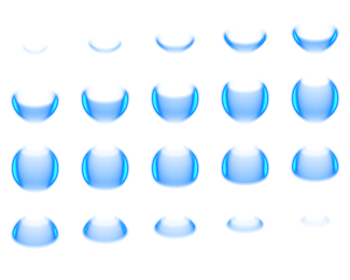
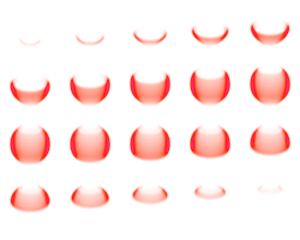
players 1-4 now have their own unique skin

diff --git a/assets/javascripts/poop.js b/assets/javascripts/poop.js
@@ -24,6 +24,10 @@ var shotCooldown = 700
 function preload() {
 	game.load.image('sky','images/sky.jpg');
 	game.load.image('bottom_bar', 'images/bottom_bar.png')
+	game.load.image('vertical_icon','images/vertical_icon.png')
+	game.load.image('shotgun_icon','images/shotgun_icon.png')
+	game.load.image('upgrade_icon','images/upgrade_icon.png')
+	game.load.image('omni_icon','images/omni_icon.png')
 	game.load.image('basic_bullet_right','images/basic_bullet_right.png')
 	game.load.image('basic_bullet_down','images/basic_bullet_down.png')
 	game.load.image('basic_bullet_left','images/basic_bullet_left.png')
@@ -43,6 +47,9 @@ function preload() {
 	game.load.spritesheet('explode1', 'images/explode1.png', 100, 100, 9)
 	// console.log("Loading sship: "+game.time.time)
 	game.load.spritesheet('sship','images/sship.png',50,50)
+	game.load.spritesheet('rship','images/redship.png',50,50)
+	game.load.spritesheet('bship','images/blueship.png',50,50)
+	game.load.spritesheet('pship','images/purpleship.png',50,50)
 	game.load.spritesheet('charging','images/charging.png',70,70)
 	
 }
@@ -156,7 +163,7 @@ socket.on('player info', function(data) {
 function spawnPlayer(user) {
 	Players.counter++
 	// have server send over which ship to render as well
-	Players[user.id] = game.add.sprite(user.x, user.y, 'sship');
+	Players[user.id] = game.add.sprite(user.x, user.y, user.ship);
 
 	var player = Players[user.id]
 	// player.weapons = []

diff --git a/app.js b/app.js
@@ -218,21 +218,25 @@ generatePlayer = function(id) {
 			var x = 100
 			var y = 100
 			var facing = "right"
+      var ship = 'sship'
 		}
 		else if (users.counter ===2) {
 			var x = 1180
 			var y = 500
 			var facing = "left"
+      var ship = 'bship'
 		}
 		else if (users.counter ===3) {
 			var x = 100
 			var y = 500
 			var facing = "right"
+      var ship = 'rship'
 		}
 		else if (users.counter ===4) {
 			var x = 1180
 			var y = 100
 			var facing = "left"
+      var ship = 'pship'
 		}
 		else {
 			var x = Math.floor(Math.random()*1230)
@@ -247,7 +251,8 @@ generatePlayer = function(id) {
 			x: x, 
 			y: y,
 			facing: facing,
-			observer: observer
+			observer: observer,
+      ship: ship
 		}
 }
 
